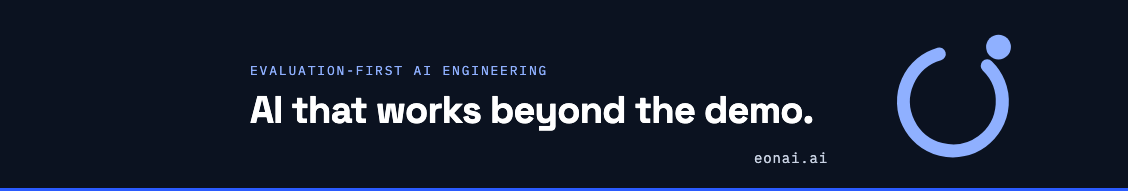
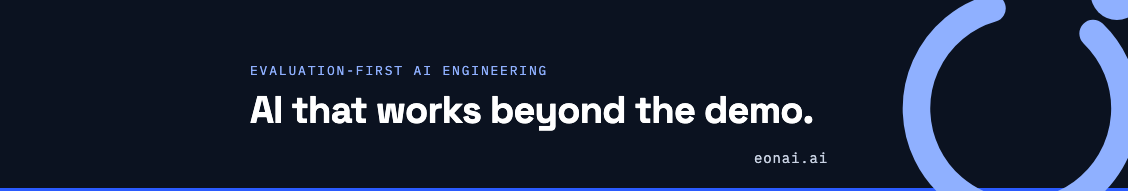
LinkedIn cover: large edge-bleeding loop restored, in full accent-light

Changed region(s): [[0.7757, 0.0, 0.8998, 1.0], [0.9309, 0.0, 1.0, 1.0]]

diff --git a/brand/social/linkedin-cover.html b/brand/social/linkedin-cover.html
@@ -3,7 +3,7 @@
 @font-face{font-family:'PM';src:url('../fonts/plex-mono-400.woff2') format('woff2');font-weight:400}
 html,body{margin:0}
 .c{position:relative;width:1128px;height:191px;background:#0B1220;overflow:hidden;font-family:'SG',sans-serif;color:#fff}
-.mark{position:absolute;right:110px;top:50%;transform:translateY(-50%);width:128px;height:128px;z-index:1}
+.mark{position:absolute;right:-30px;top:-38px;width:270px;height:270px;z-index:1}
 .t{position:absolute;left:250px;top:50%;transform:translateY(-50%)}
 .e{font-family:'PM',monospace;font-size:13px;letter-spacing:.14em;color:#8FB0FF;margin-bottom:12px}
 .h{font-size:38px;font-weight:700;letter-spacing:-.02em;line-height:1.05}
